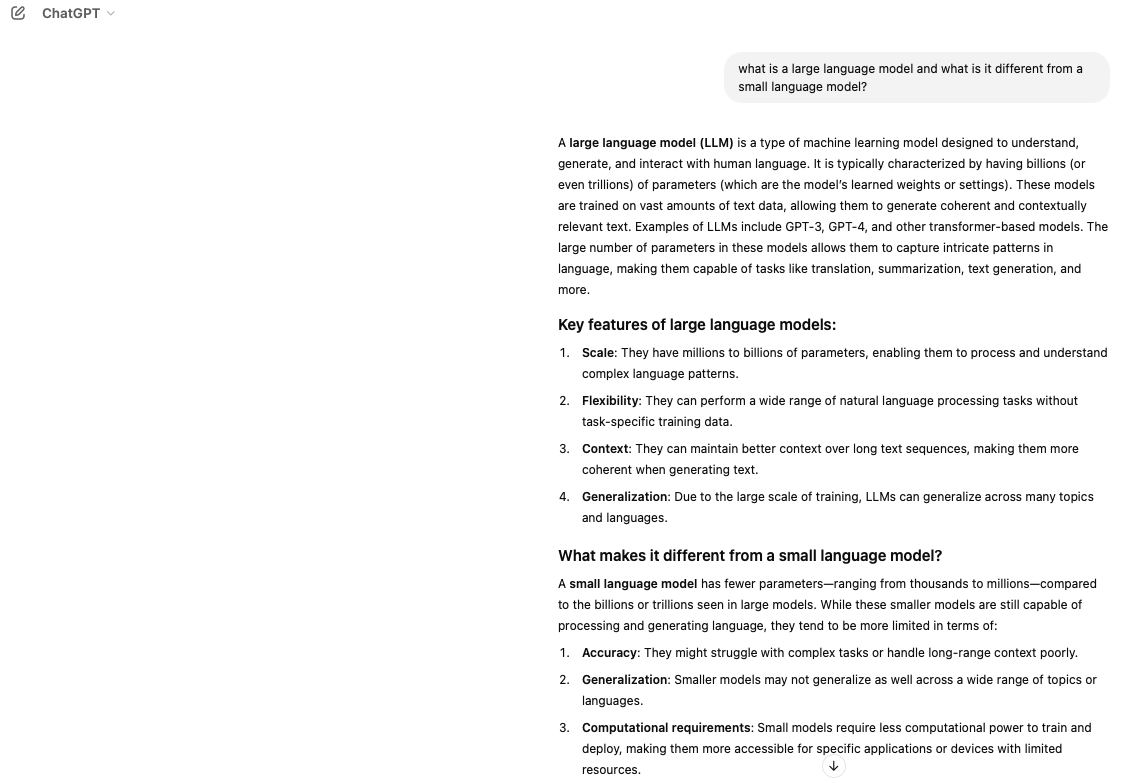
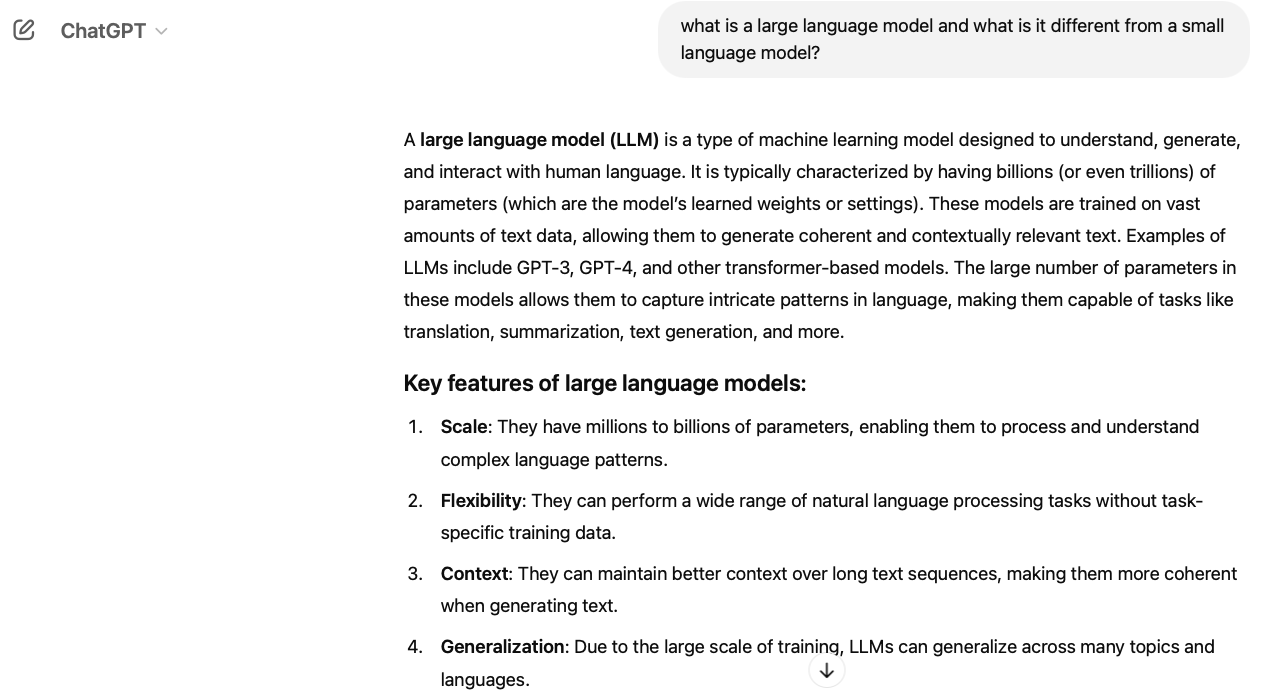
update

diff --git a/course _content/03 Understanding LLM's and SLM's and current challenges.md b/course _content/03 Understanding LLM's and SLM's and current challenges.md
@@ -1,4 +1,6 @@
 # Understanding LLMs / SLMs 
 
+Let's start by understanding what a Large Language Model (LLM) is and then we can look at what a Small Language Model (SML) is.  What better way to find out than by asking ChatGPT!
+
 ![What is and LLM and how are they different from SLMs](images/image1.png)
 
